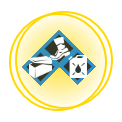
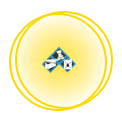
tweak more assets; fix selection and bounding box issue

Changed region(s): [[0.1721, 0.2459, 0.7869, 0.7131]]

diff --git a/script.js b/script.js
@@ -1334,6 +1334,7 @@ const mll = (function () {
                 hasBorders: false,
                 lockMovementX: true,
                 lockMovementY: true,
+                perPixelTargetFind: true,
             });
             circle.setControlsVisibility({
                 mt: true, mb: true, ml: true, mr: true, bl: true, br: true, tl: false, tr: false, mtr: true
@@ -1447,7 +1448,6 @@ const mll = (function () {
 
         fabric.Image.fromURL('', function (img) {
             console.log(img);
-
             img.set({
                 selectable: true,
                 evented: true,
@@ -1461,8 +1461,6 @@ const mll = (function () {
                 left: e.absolutePointer.x,
                 // These will change and be calculated but for some reason set them higher so that its selectable once added
                 zIndex: 99,
-                width: 999,
-                height: 999,
             });
             // img.filters.push(new fabric.Image.filters.HueRotation({rotation: 2 * Math.random() - 1}))
             img.type = {
@@ -2374,7 +2372,8 @@ const mll = (function () {
                         originX: 'center',
                         originY: 'center',
                         id: id,
-                        objectCaching: false
+                        objectCaching: false,
+                        perPixelTargetFind: true,
                     });
                     if (pointArray.length == 0) {
                         circle.set({
@@ -2917,7 +2916,8 @@ const mll = (function () {
                         left: point[0],
                         top: point[1],
                         text: meters + "m"
-                    })
+                    });
+                    line.setCoords();
 
                     controls.fabricCanvas.requestRenderAll();
                 }
@@ -3528,7 +3528,21 @@ const mll = (function () {
                 updateZoomScale();
             });
 
-            // TODO https://codepen.io/durga598/pen/gXQjdw?editors=0010
+            // Fabric object bounding box debug
+            // controls.fabricCanvas.on('after:render', function() {
+            //     controls.fabricCanvas.forEachObject(function(obj) {
+            //         if (obj.selectable) {
+            //             controls.fabricCanvas.contextContainer.strokeStyle = '#2dff00';
+            //             var bound = obj.getBoundingRect();
+            //             controls.fabricCanvas.contextContainer.strokeRect(
+            //                 bound.left + 0.5,
+            //                 bound.top + 0.5,
+            //                 bound.width,
+            //                 bound.height
+            //             );
+            //         }
+            //     })
+            // });
 
             elements.spImage = new Image();
             elements.spImage.onload = loadStrongpoints;
@@ -4157,7 +4171,11 @@ const mll = (function () {
                             applyFilters.push(object);
                         }
 
-                        object.setSrc(meta.resolveImg(object), resolve);
+                        object.setSrc(meta.resolveImg(object), function (o) {
+                            // fix image bounding box after src changes
+                            o.setCoords();
+                            resolve();
+                        });
                     }));
                 }
             }
